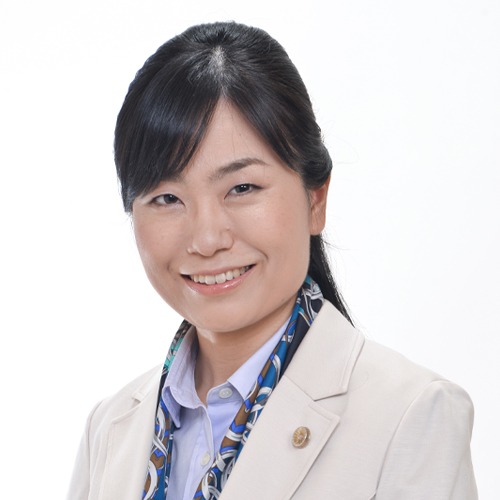
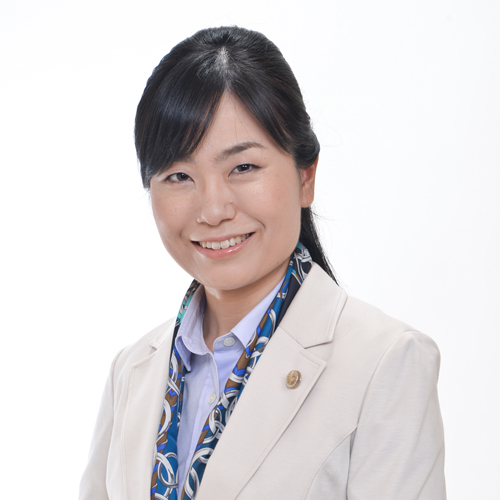
revised a member photo; fixed branch typo on member's bio page

diff --git a/gulpfile.js b/gulpfile.js
@@ -78,7 +78,7 @@ gulp.task('imagemin', () => {
   .pipe(imagemin({
     verbose: true
   }))
-  .pipe(gulp.dest('images'));
+  .pipe(gulp.dest('src/images'));
 });
 //download vendor files
 gulp.task('download', ['clean'], () => {
